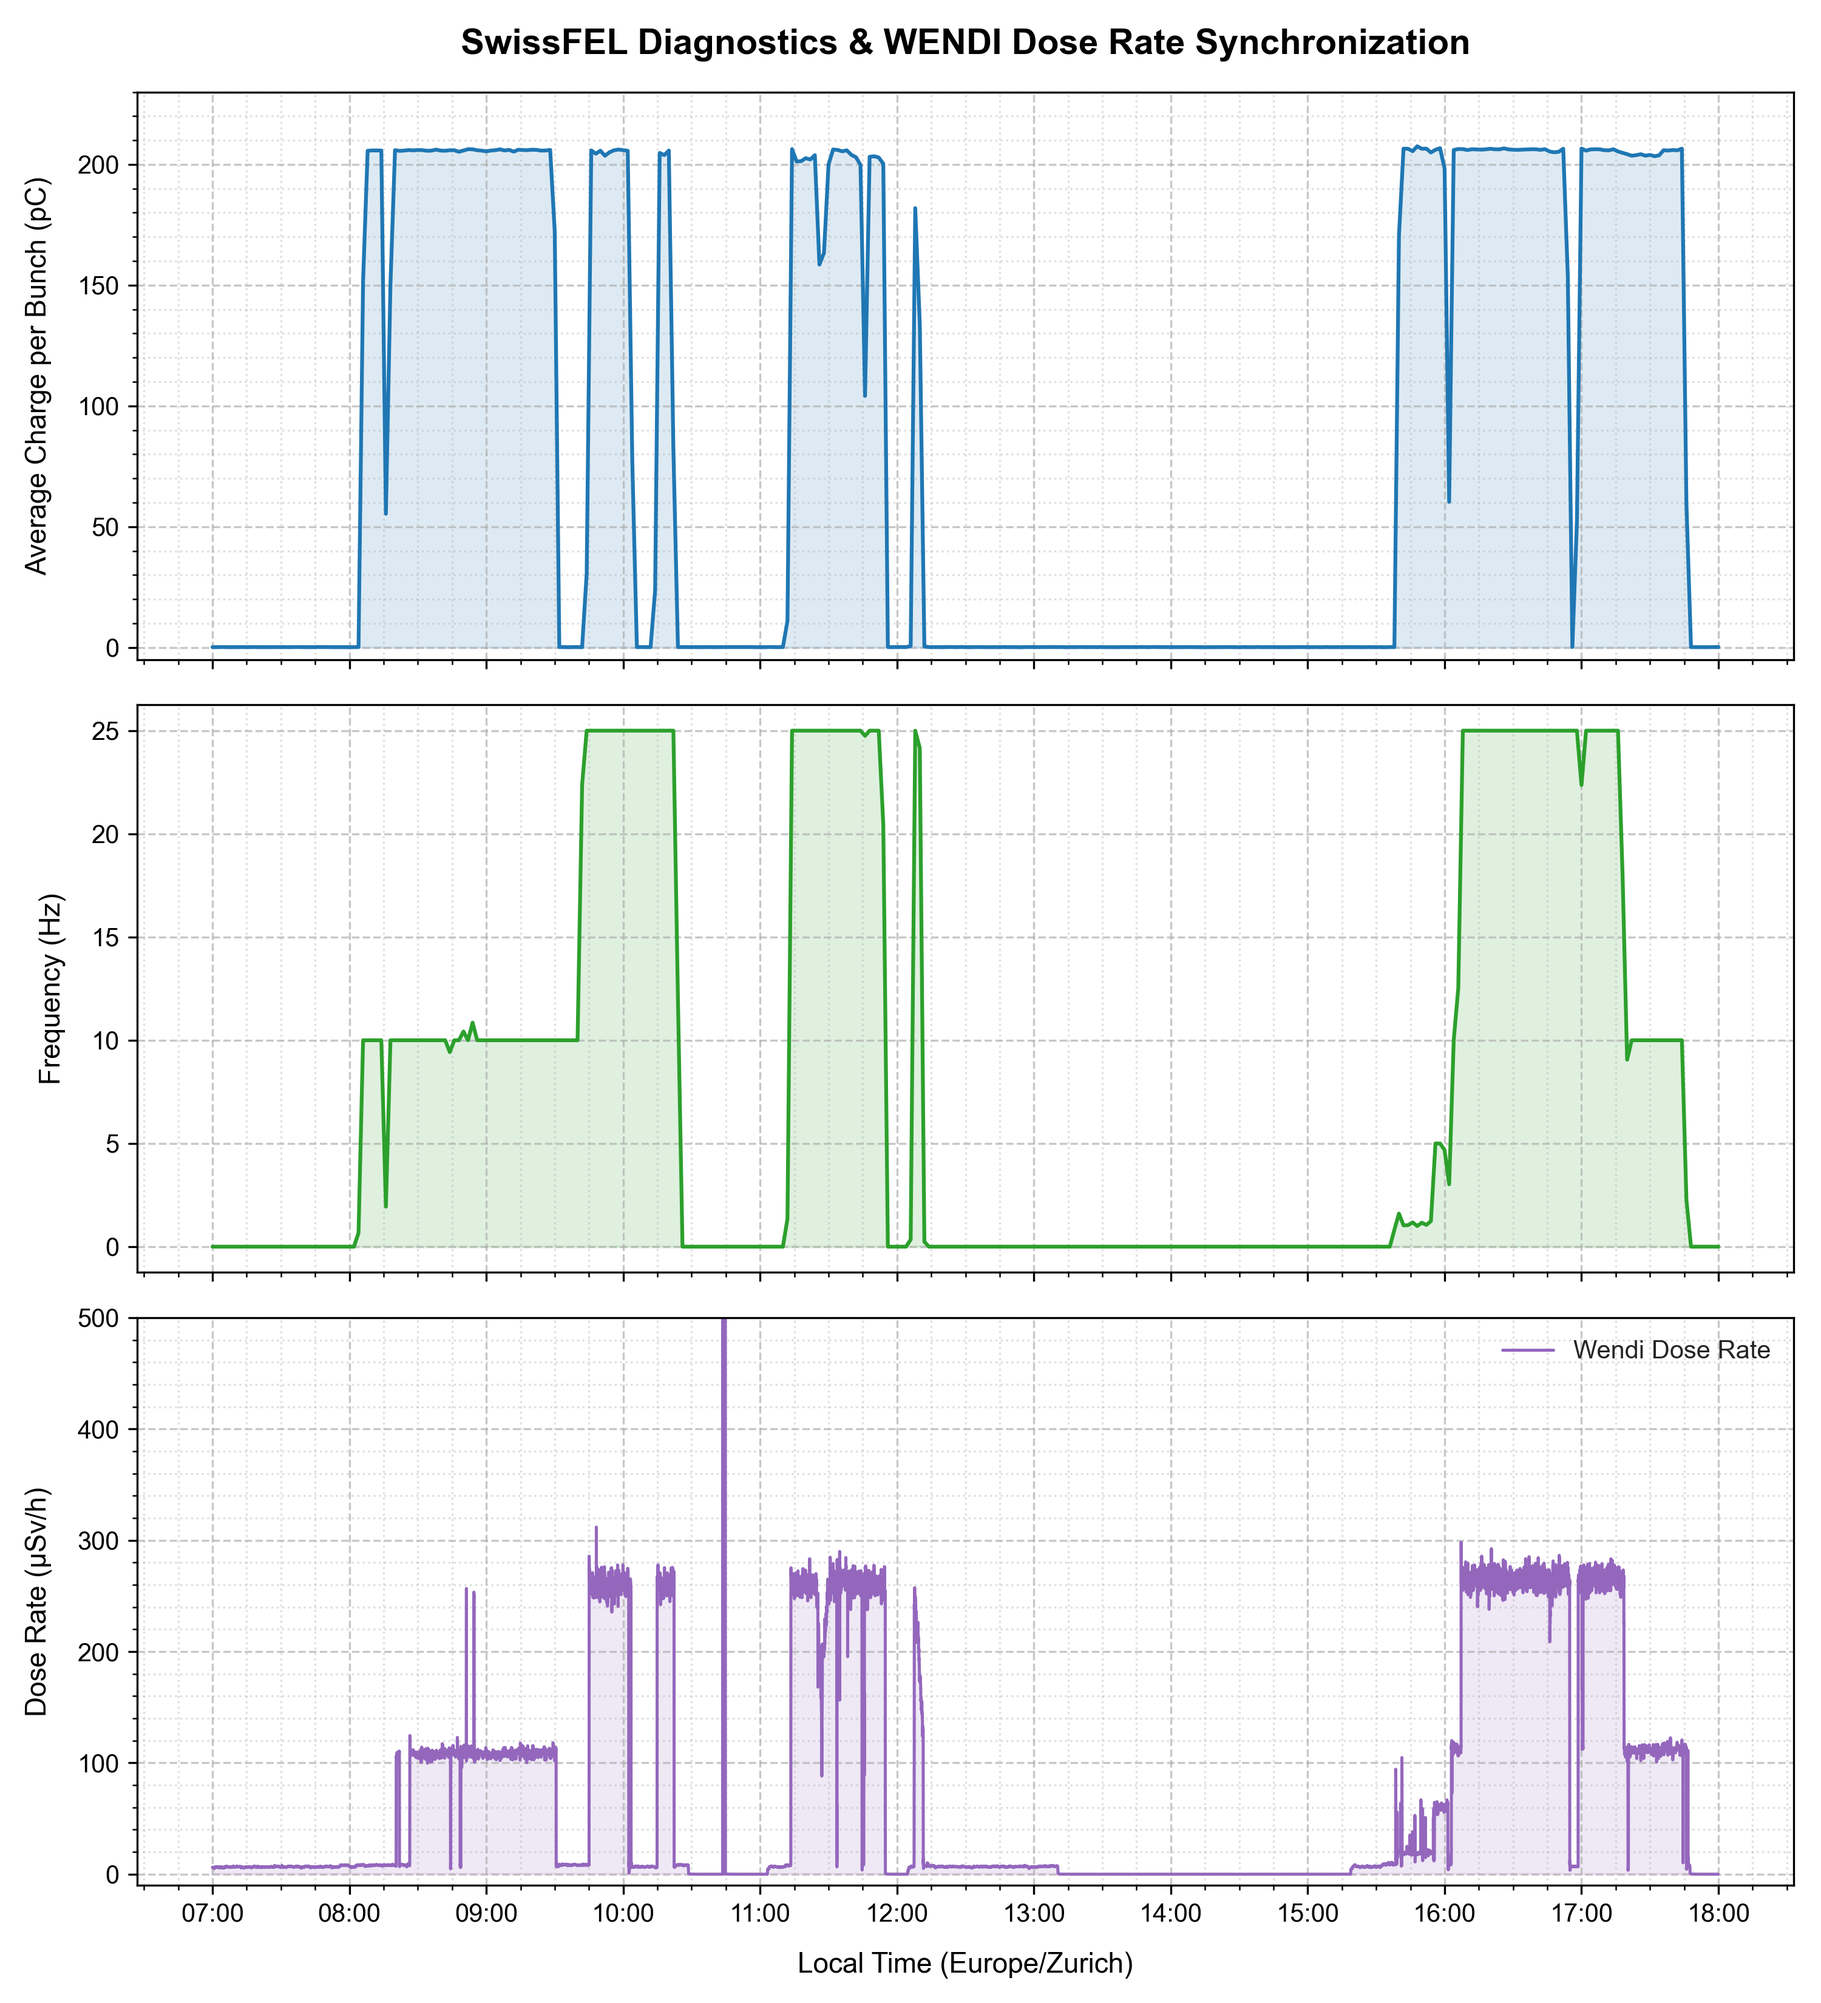
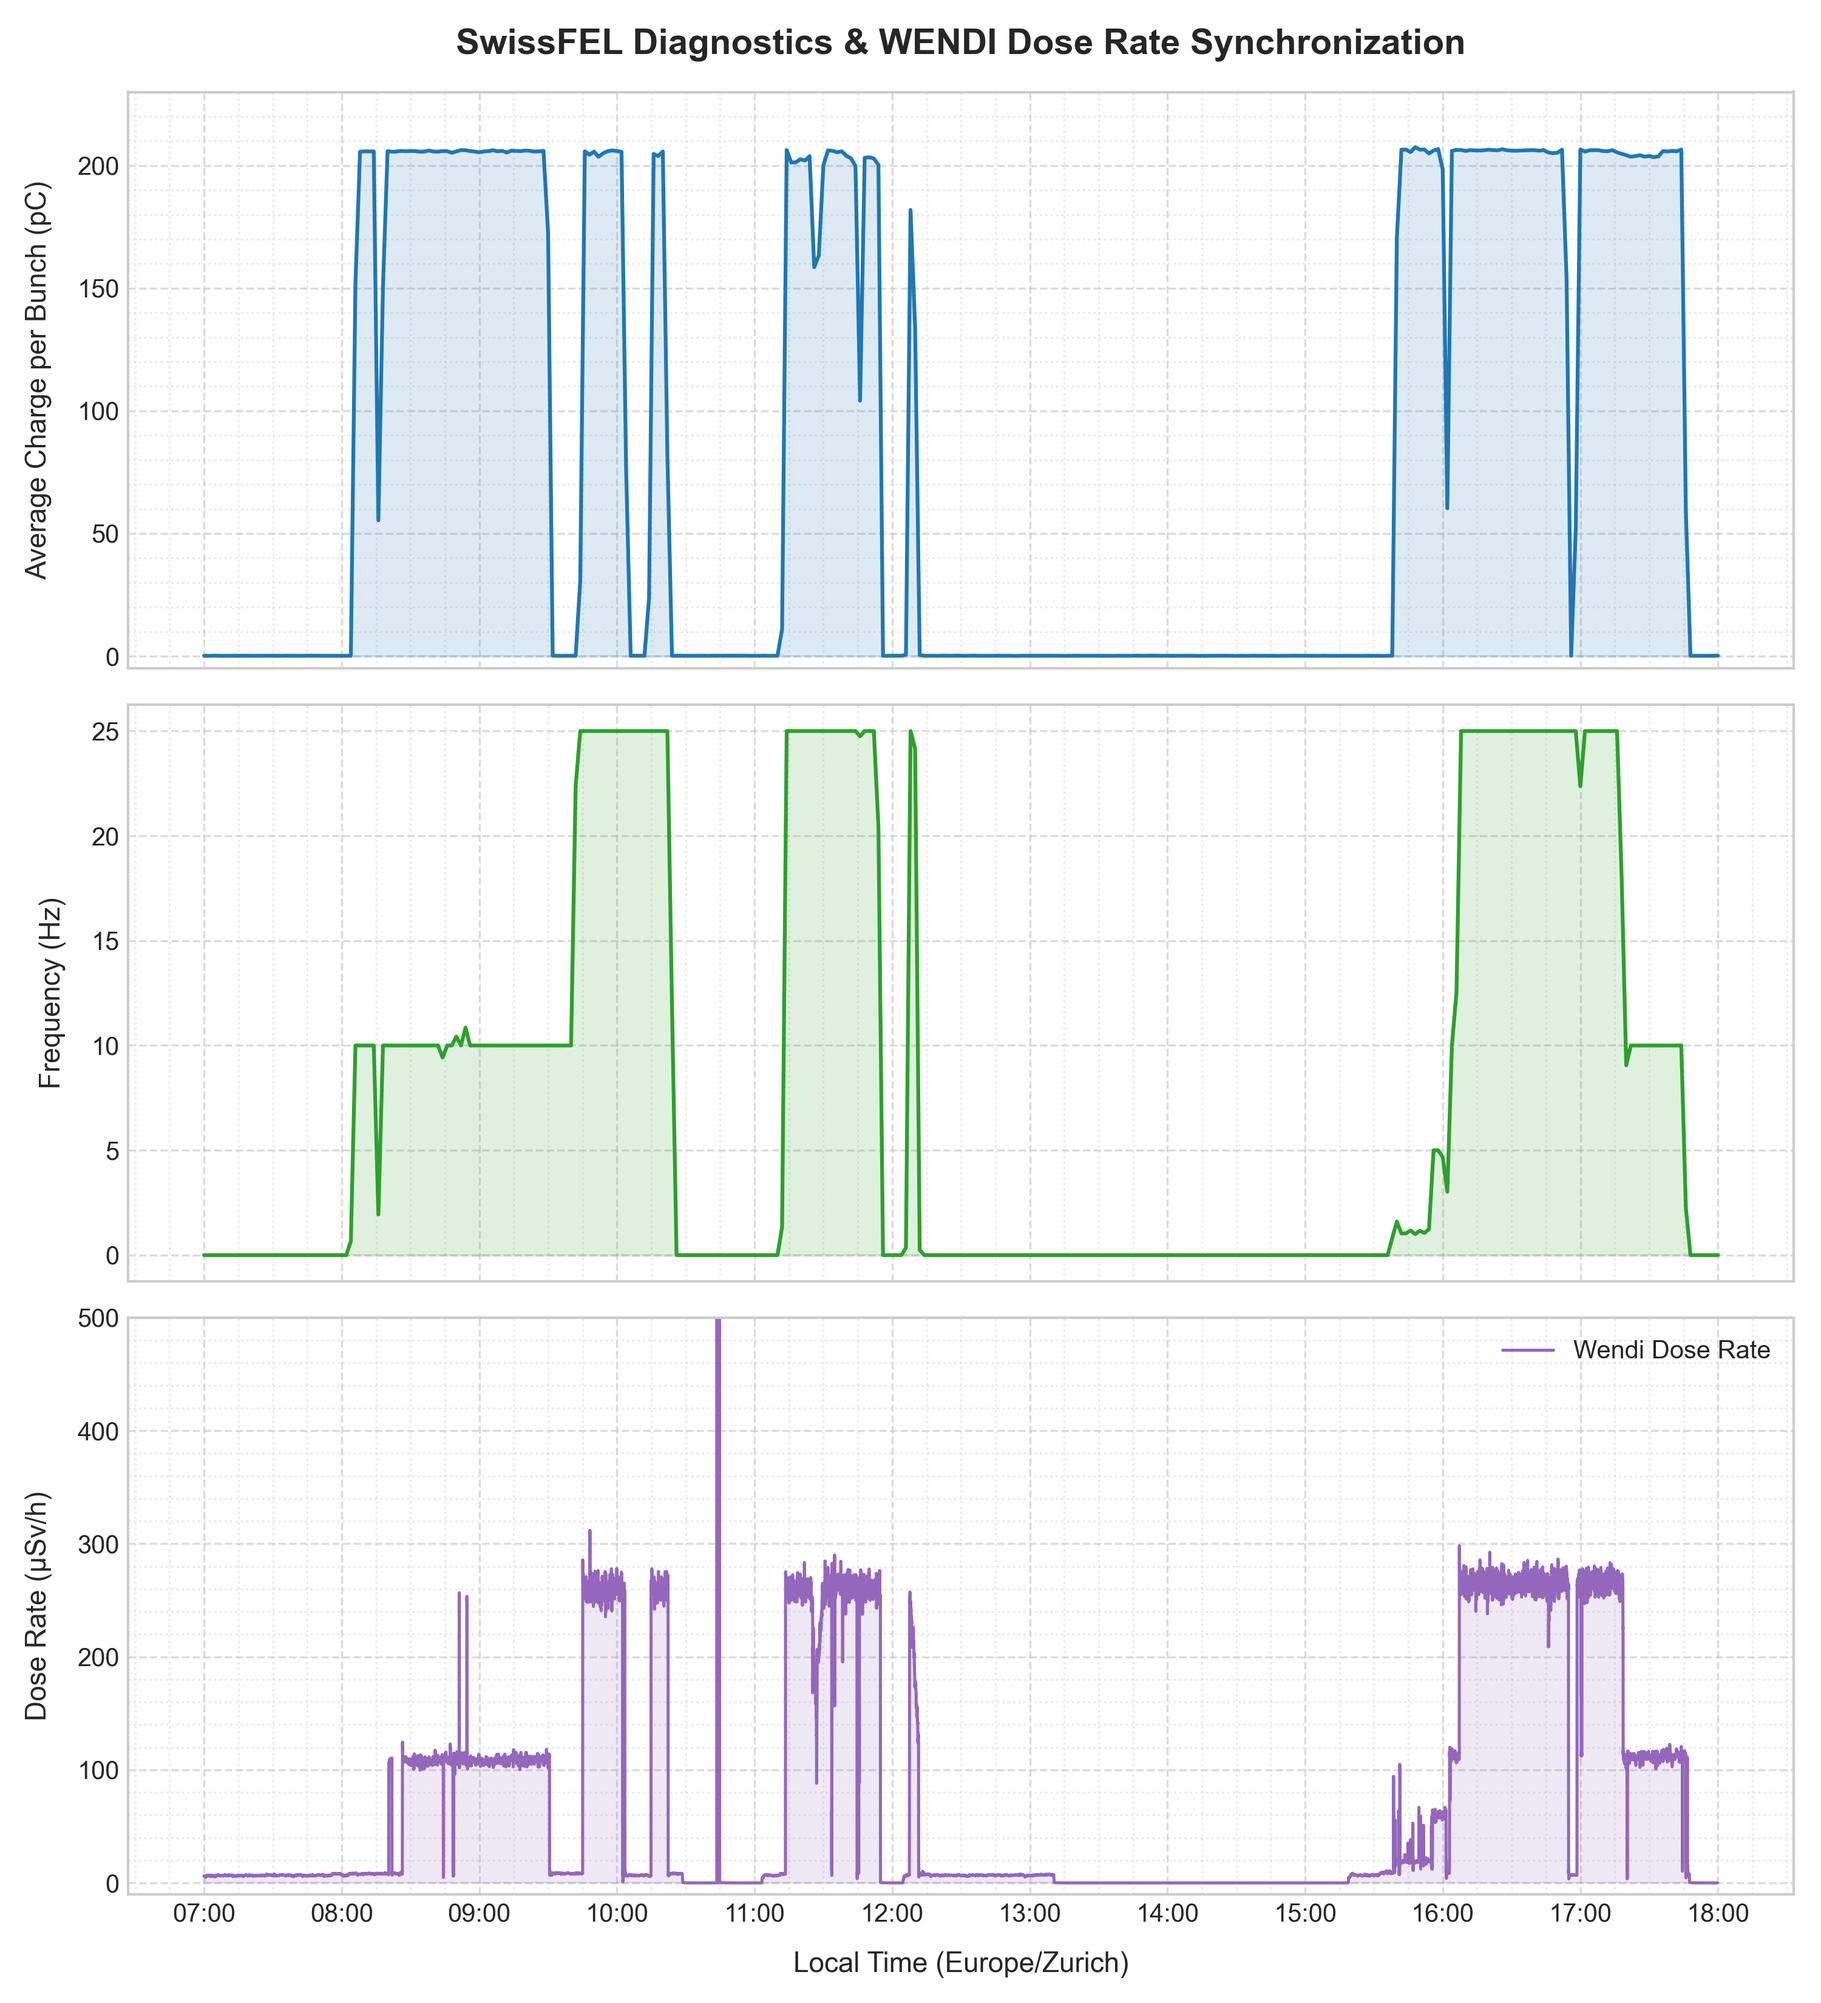
Uniform WENDI plot style
This uniforms the style of the WENDI plot with the other plots.

diff --git a/SwissFEL25/MultiDetectorAnalysis.py b/SwissFEL25/MultiDetectorAnalysis.py
@@ -152,8 +152,9 @@ def analyze_and_plot_detector(df_det, df_mach, detector_name, dose_col, threshol
     # -------------------------------------------------------------------------
     # PART A: Synchronized 3-Panel Plotting
     # -------------------------------------------------------------------------
-    fig, (ax1, ax2, ax3) = plt.subplots(3, 1, sharex=True, figsize=(10, 11), dpi=150)
+    # Set the style globally BEFORE creating the subplots to keep the light grey borders
     plt.style.use('seaborn-v0_8-whitegrid' if 'seaborn-v0_8-whitegrid' in plt.style.available else 'default')
+    fig, (ax1, ax2, ax3) = plt.subplots(3, 1, sharex=True, figsize=(10, 11), dpi=150)
 
     # 1. Top Subplot: Beam Charge (from machine dataframe)
     ax1.plot(df_mach['datetime'], df_mach['charge_pC'], color='#1f77b4', linewidth=1.5, label='Beam Charge')
